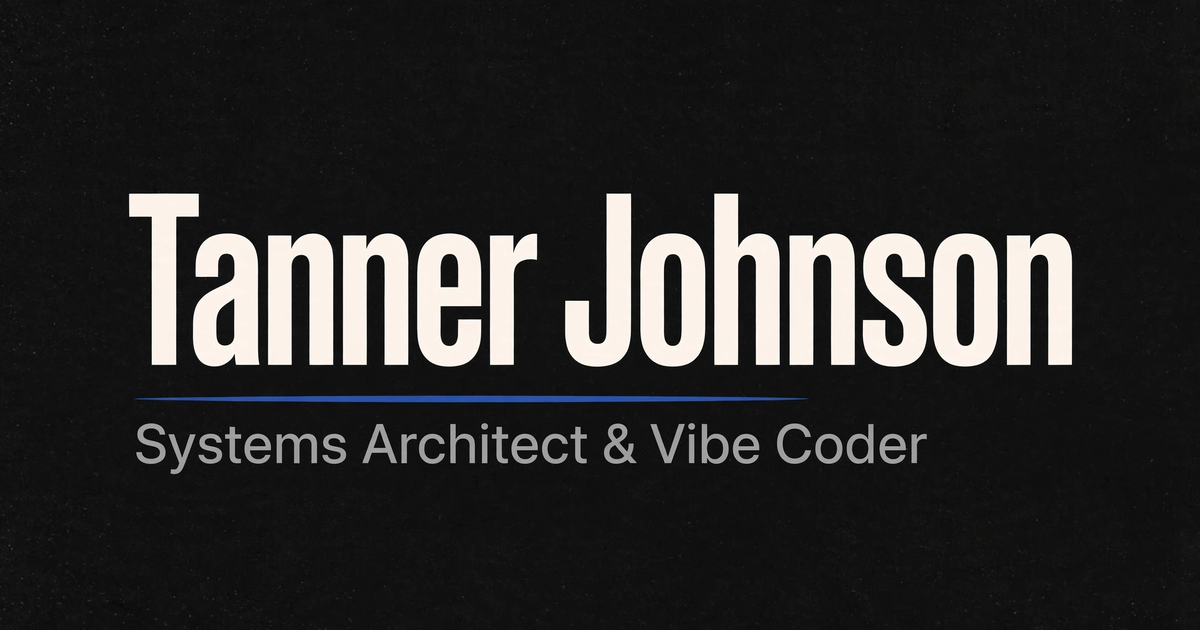
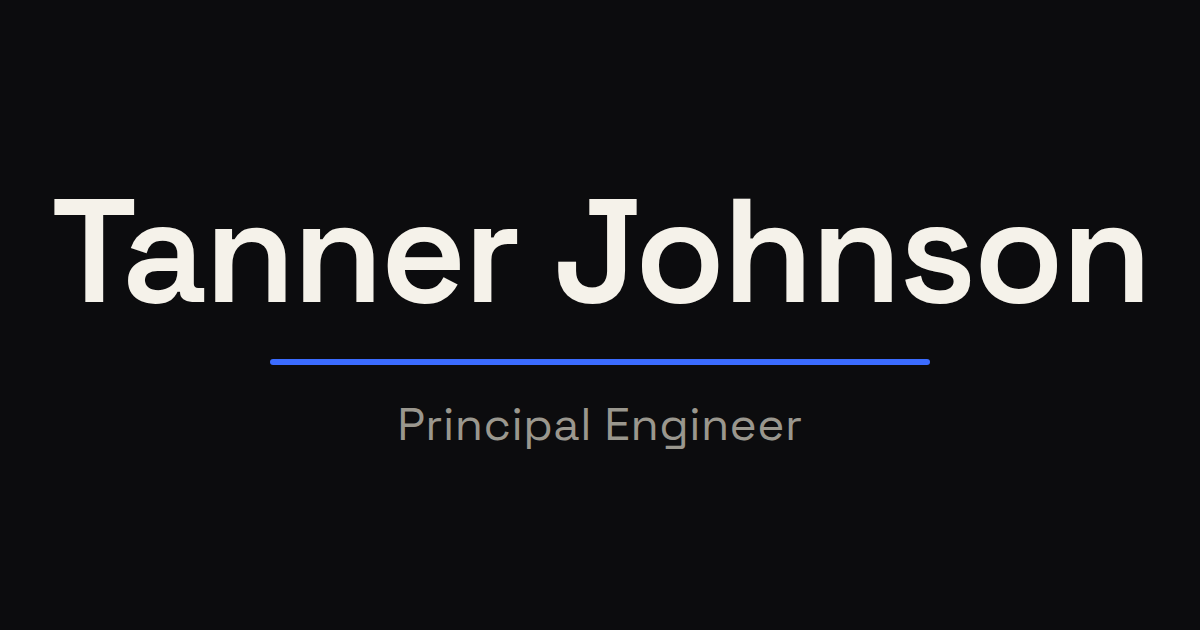
Revise copy per feedback: Principal Engineer title, adapt-to-project approach, benefit-tagged affiliate links, footer cleanup, new og.png

Changed region(s): [[0.0308, 0.3016, 0.9558, 0.754]]

diff --git a/src/data/links.ts b/src/data/links.ts
@@ -70,6 +70,7 @@ export const linkGroups: LinkGroup[] = [
         name: "Starlink",
         url: "https://www.starlink.com/residential?referral=RC-2421177-16688-68",
         blurb: "High-speed satellite internet anywhere. Reliable connectivity for remote areas.",
+        perk: "Get a free month of service",
       },
       {
         name: "Litter Robot",
@@ -81,11 +82,13 @@ export const linkGroups: LinkGroup[] = [
         name: "Cloudways",
         url: "https://www.cloudways.com/en/?id=1827700",
         blurb: "Managed cloud hosting. Deploy WordPress or PHP apps in minutes on AWS, Google Cloud, or DigitalOcean.",
+        perk: "Get $25 in hosting credit",
       },
       {
         name: "Wispr Flow",
         url: "https://wisprflow.ai/r/TANNER111",
         blurb: "Voice-to-text AI that writes as you speak. Dictate anywhere on your Mac with natural, accurate transcription.",
+        perk: "Get a free month of Pro",
       },
     ],
   },
@@ -96,6 +99,7 @@ export const linkGroups: LinkGroup[] = [
         name: "Function Health",
         url: "https://my.functionhealth.com/signup?code=TJOHNSON58&_saasquatch=TJOHNSON58&d=FHREF25",
         blurb: "160+ lab tests with insights from top doctors. Comprehensive health monitoring to catch issues early.",
+        perk: "Get $25 off your first year",
       },
     ],
   },
@@ -106,7 +110,7 @@ export const linkGroups: LinkGroup[] = [
         name: "Tesla",
         url: "http://ts.la/tanner57678",
         blurb: "Electric vehicles and sustainable energy.",
-        perk: "Exclusive rewards when purchasing through referral",
+        perk: "Get 3 months of free Full Self-Driving",
       },
       {
         name: "CookUnity",

diff --git a/src/pages/llms.txt.ts b/src/pages/llms.txt.ts
@@ -22,18 +22,19 @@ export const GET: APIRoute = () => {
   const lines = [
     "# tannerwj.com",
     "",
-    "> Personal site of Tanner Johnson — systems architect & vibe coder in Utah.",
-    "> Building secure, scalable systems for humans and agents.",
+    "> Personal site of Tanner Johnson — principal engineer in Utah.",
+    "> Focused on large-scale security, architecture, and AI orchestration.",
     "",
     "## About",
     "",
-    "Tanner Johnson builds AI-native apps on Cloudflare (Workers + D1), trading toys,",
-    "dev tools, games, comics, and experiments. Most projects go from idea to live URL fast.",
+    "Tanner Johnson is a principal engineer in Utah focused on large-scale",
+    "security, architecture, and AI orchestration. Side projects — apps,",
+    "trading toys, games, comics, star charts — go from idea to live URL fast.",
     "",
     "- Home: https://tannerwj.com/",
     "- About: https://tannerwj.com/about",
     "- Now (current focus): https://tannerwj.com/now",
-    "- Uses (stack + services): https://tannerwj.com/uses",
+    "- Uses (tools + services + referral perks): https://tannerwj.com/uses",
     "- Links (link-in-bio): https://tannerwj.com/links",
     "",
     "## Projects",

diff --git a/src/data/site.ts b/src/data/site.ts
@@ -2,10 +2,10 @@ export const site = {
   name: "Tanner Johnson",
   domain: "tannerwj.com",
   url: "https://tannerwj.com",
-  title: "Tanner Johnson — Systems Architect & Vibe Coder",
+  title: "Tanner Johnson — Principal Engineer",
   description:
-    "Tanner Johnson builds secure, scalable systems for humans and agents — AI apps, trading toys, dev tools, and experiments. Based in Utah.",
-  role: "Systems Architect & Vibe Coder",
+    "Tanner Johnson is a principal engineer in Utah, focused on large-scale security, architecture, and AI orchestration.",
+  role: "Principal Engineer",
   location: "Utah, USA",
   ogImage: "/og.png",
 };
